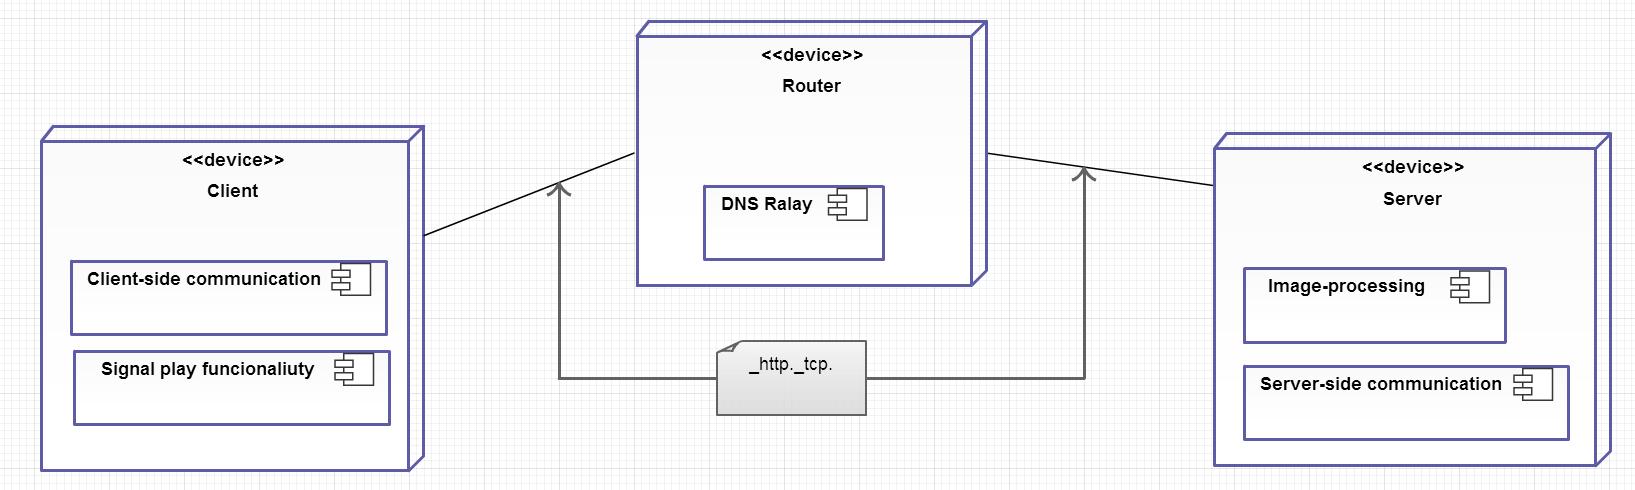
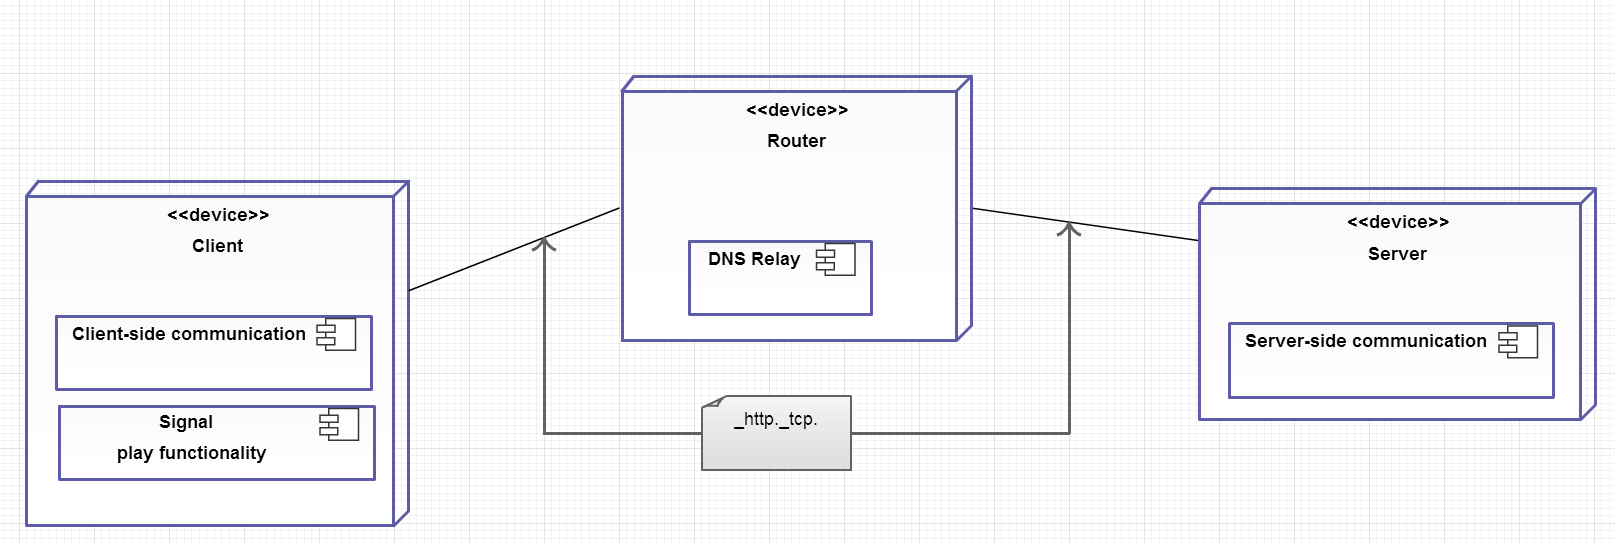
sprint 1 - more on architecture

diff --git a/documents/report/sprint1/sprint1.tex b/documents/report/sprint1/sprint1.tex
@@ -49,7 +49,6 @@ For illustrating software architecture "4+1" architectural Model View\ref{fig:4+
 
 \begin{figure}[!ht]
 	\centering
-
 		\includegraphics[width=7cm]{sprint1/4+1.png}
 	\caption{"4+1" architectural view model}
 	\label{fig:4+1 }
@@ -87,6 +86,23 @@ In the sequence diagram \ref{fig:sprint1_communication} is showed how applicatio
 \end{figure}
 
 \subsubsection{Physical View}
+The deployment diagram, displayed in \ref{fig:deployment_diagram } describes the system architecture focusing on the large components and their connections.
+
+\begin{figure}[!Ht]
+	\centering
+		\includegraphics[width=15cm]{sprint1/deploy_diagram.png}
+	\caption{Deployment diagram}
+	\label{fig:deployment_diagram }
+\end{figure}
+
+\paragraph{Client}
+is the application that runs on audience Android device. It is able to discover available services, connect to one and receive command signals from the server. After receiving commands the client is able to flash screen according to given signal.
+
+\paragraph{Router}
+is inevitable part of client-server communication since our project is based on wireless network and zeroconf technologies. In order to support our demands it have to include a DNS relay. The relay embraces storing of service names and allows look-up stored data to the clients.
+
+\paragraph{Server}
+is the application that runs on manager's Android device. It have to register service that it provides at router DNS table. Once registered it have to be able to listen for the clients and broadcast command signals to them.
 
 \subsubsection{Process View}
 
